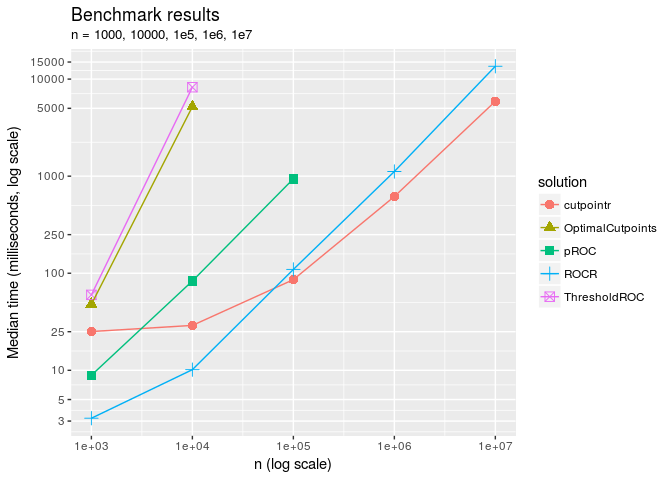
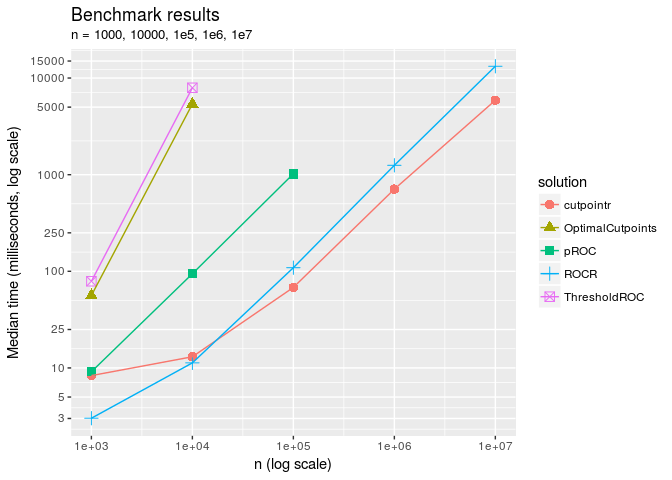
Fix display of bootstrap in summary function

diff --git a/README.md b/README.md
@@ -415,6 +415,7 @@ summary(opt_cut)
 #> Predictor: dsi 
 #> Outcome: suicide 
 #> Direction: >= 
+#> Nr. of bootstraps: 50 
 #> 
 #>  optimal_cutpoint sum_sens_spec    acc sensitivity specificity    AUC
 #>                 2        1.7518 0.8647      0.8889      0.8629 0.9238
@@ -436,6 +437,36 @@ summary(opt_cut)
 #>     Min.   5% 1st Qu. Median   Mean 3rd Qu.  95% Max     SD
 #> no     0 0.00       0      0 0.6331       0 4.00  10 1.4122
 #> yes    0 0.75       4      5 4.8889       6 9.25  11 2.5498
+#> 
+#> Bootstrap summary: 
+#>           Variable   Min.     5% 1st Qu. Median   Mean 3rd Qu.    95%
+#>   optimal_cutpoint 1.0000 1.4500  2.0000 2.0000 2.1400  2.0000 3.5500
+#>              AUC_b 0.8621 0.8913  0.9168 0.9327 0.9296  0.9466 0.9586
+#>            AUC_oob 0.8311 0.8541  0.8983 0.9142 0.9134  0.9338 0.9644
+#>    sum_sens_spec_b 1.6285 1.6894  1.7478 1.7747 1.7702  1.7995 1.8385
+#>  sum_sens_spec_oob 1.4764 1.5551  1.6510 1.7085 1.7068  1.7631 1.8324
+#>              acc_b 0.7613 0.8164  0.8571 0.8712 0.8679  0.8816 0.9052
+#>            acc_oob 0.7200 0.7976  0.8455 0.8618 0.8546  0.8721 0.8921
+#>      sensitivity_b 0.7949 0.8358  0.8777 0.9077 0.9049  0.9316 0.9683
+#>    sensitivity_oob 0.5833 0.6958  0.8031 0.8571 0.8519  0.9215 1.0000
+#>      specificity_b 0.7520 0.8095  0.8545 0.8691 0.8653  0.8822 0.9091
+#>    specificity_oob 0.7059 0.7866  0.8442 0.8628 0.8549  0.8722 0.8934
+#>            kappa_b 0.2214 0.3289  0.3786 0.4221 0.4238  0.4673 0.5310
+#>          kappa_oob 0.2145 0.2505  0.3198 0.3808 0.3814  0.4430 0.4866
+#>    Max.     SD
+#>  4.0000 0.6064
+#>  0.9705 0.0214
+#>  0.9737 0.0320
+#>  1.8555 0.0471
+#>  1.8876 0.0874
+#>  0.9286 0.0296
+#>  0.9091 0.0325
+#>  0.9762 0.0426
+#>  1.0000 0.0951
+#>  0.9313 0.0322
+#>  0.9389 0.0373
+#>  0.6033 0.0720
+#>  0.5003 0.0748
 plot(opt_cut)
 ```
 
@@ -944,11 +975,9 @@ For example, this is the `misclassification_cost` metric function:
 
 ``` r
 misclassification_cost
-#> function (tp, fp, tn, fn, cost_fp = 1, cost_fn = 1, ...) 
-#> {
+#> function(tp, fp, tn, fn, cost_fp = 1, cost_fn = 1, ...) {
 #>     misclassification_cost <- cost_fp * fp + cost_fn * fn
-#>     misclassification_cost <- matrix(misclassification_cost, 
-#>         ncol = 1)
+#>     misclassification_cost <- matrix(misclassification_cost, ncol = 1)
 #>     colnames(misclassification_cost) <- "misclassification_cost"
 #>     return(misclassification_cost)
 #> }
@@ -1159,13 +1188,13 @@ Benchmarks are run for sample sizes of 1000, 1e4, 1e5, 1e6, and 1e7. For low sam
 
 ![](README-unnamed-chunk-47-1.png)
 
-|      n|   cutpointr|  OptimalCutpoints|        pROC|          ROCR|  ThresholdROC|
-|------:|-----------:|-----------------:|-----------:|-------------:|-------------:|
-|  1e+03|    25.09471|          47.84453|    8.891217|      3.209919|      59.86058|
-|  1e+04|    29.01353|        5194.47377|   83.237628|     10.158945|    8252.99037|
-|  1e+05|    85.94157|                NA|  939.500229|    109.492256|            NA|
-|  1e+06|   617.25418|                NA|          NA|   1117.249976|            NA|
-|  1e+07|  5906.54936|                NA|          NA|  13565.716659|            NA|
+|      n|    cutpointr|  OptimalCutpoints|         pROC|          ROCR|  ThresholdROC|
+|------:|------------:|-----------------:|------------:|-------------:|-------------:|
+|  1e+03|     8.334464|          56.21193|     9.131493|      3.017892|      78.88322|
+|  1e+04|    13.057035|        5383.76537|    94.403445|     11.284935|    7930.97356|
+|  1e+05|    68.155645|                NA|  1021.098187|    108.988626|            NA|
+|  1e+06|   708.193360|                NA|           NA|   1250.425970|            NA|
+|  1e+07|  5893.323971|                NA|           NA|  13247.381417|            NA|
 
 ### ROC curve only
 

diff --git a/NEWS.md b/NEWS.md
@@ -1,3 +1,7 @@
+# cutpointr 0.7.3
+- Fix display of bootstrap results in summary
+- Update benchmarks in Readme
+
 # cutpointr 0.7.2
 - More tests and modified two tests that led to errors when CRAN checked 
 the package (`spar = NULL` in `maximize_spline_metric`)
